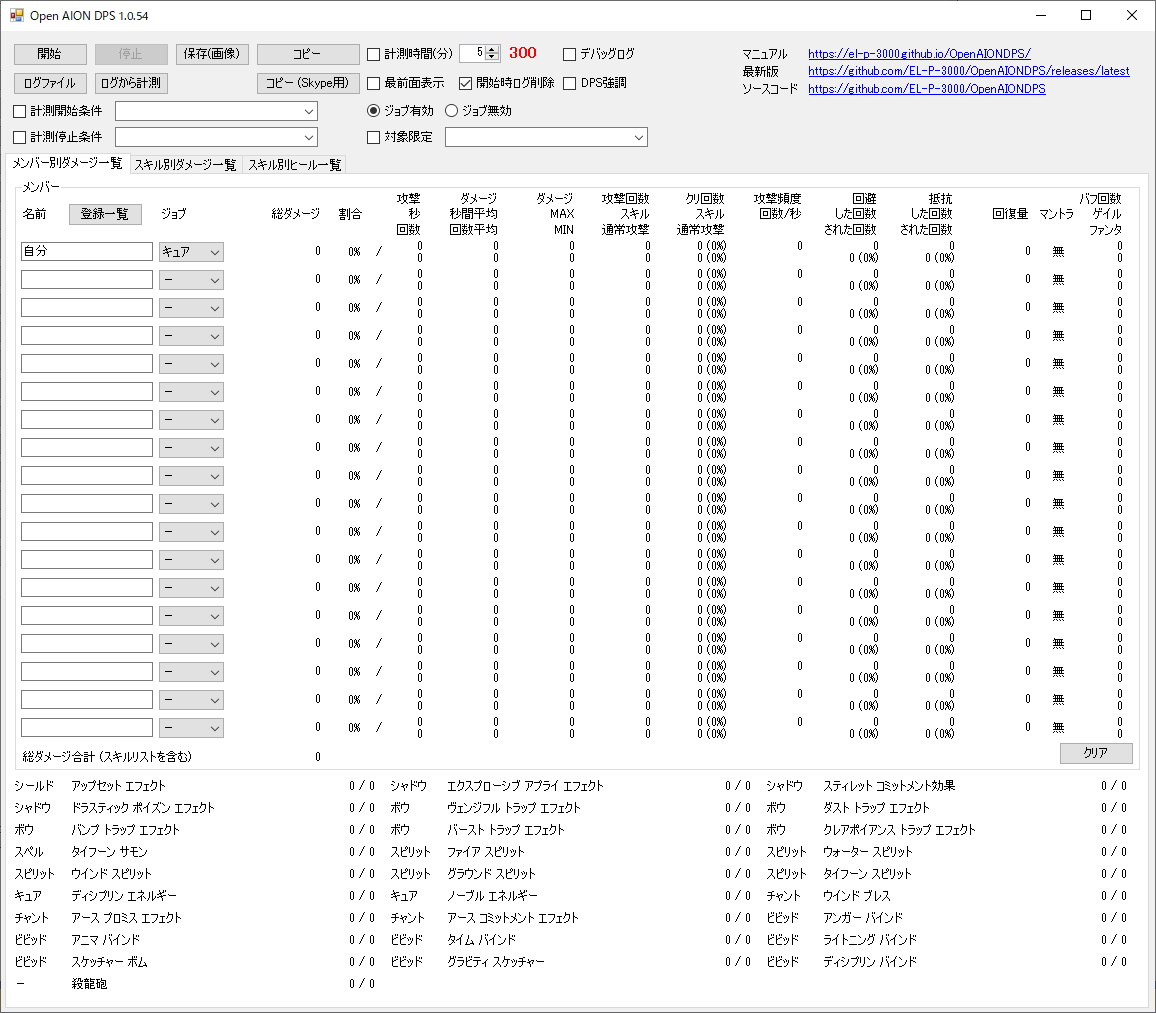
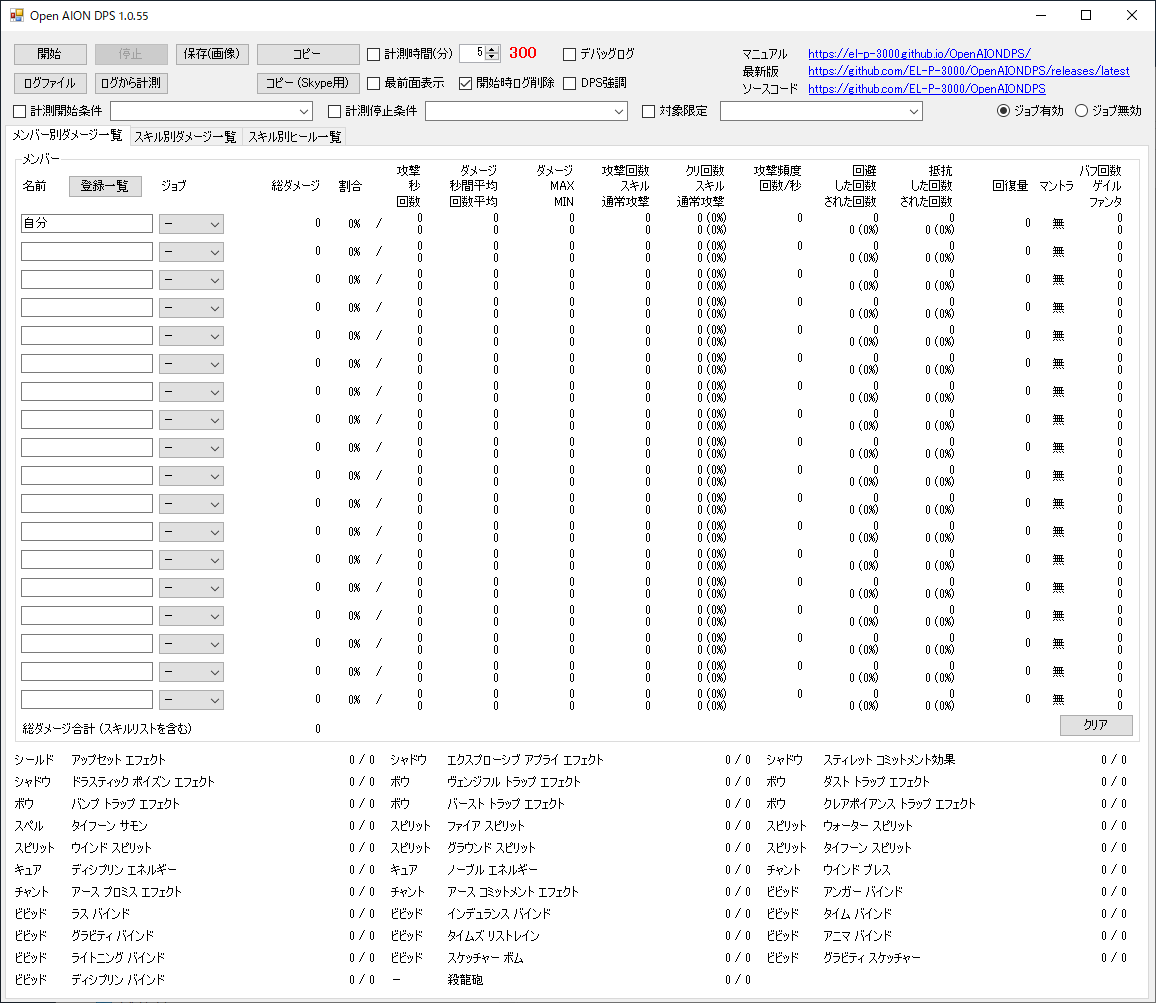
Version 1.0.55

diff --git a/OpenAIONDPS/MainForm.Designer.cs b/OpenAIONDPS/MainForm.Designer.cs
@@ -28,18 +28,18 @@
         /// </summary>
         private void InitializeComponent()
         {
-            System.Windows.Forms.DataGridViewCellStyle dataGridViewCellStyle73 = new System.Windows.Forms.DataGridViewCellStyle();
-            System.Windows.Forms.DataGridViewCellStyle dataGridViewCellStyle74 = new System.Windows.Forms.DataGridViewCellStyle();
-            System.Windows.Forms.DataGridViewCellStyle dataGridViewCellStyle75 = new System.Windows.Forms.DataGridViewCellStyle();
-            System.Windows.Forms.DataGridViewCellStyle dataGridViewCellStyle76 = new System.Windows.Forms.DataGridViewCellStyle();
-            System.Windows.Forms.DataGridViewCellStyle dataGridViewCellStyle77 = new System.Windows.Forms.DataGridViewCellStyle();
-            System.Windows.Forms.DataGridViewCellStyle dataGridViewCellStyle78 = new System.Windows.Forms.DataGridViewCellStyle();
-            System.Windows.Forms.DataGridViewCellStyle dataGridViewCellStyle79 = new System.Windows.Forms.DataGridViewCellStyle();
-            System.Windows.Forms.DataGridViewCellStyle dataGridViewCellStyle80 = new System.Windows.Forms.DataGridViewCellStyle();
-            System.Windows.Forms.DataGridViewCellStyle dataGridViewCellStyle81 = new System.Windows.Forms.DataGridViewCellStyle();
-            System.Windows.Forms.DataGridViewCellStyle dataGridViewCellStyle82 = new System.Windows.Forms.DataGridViewCellStyle();
-            System.Windows.Forms.DataGridViewCellStyle dataGridViewCellStyle83 = new System.Windows.Forms.DataGridViewCellStyle();
-            System.Windows.Forms.DataGridViewCellStyle dataGridViewCellStyle84 = new System.Windows.Forms.DataGridViewCellStyle();
+            System.Windows.Forms.DataGridViewCellStyle dataGridViewCellStyle85 = new System.Windows.Forms.DataGridViewCellStyle();
+            System.Windows.Forms.DataGridViewCellStyle dataGridViewCellStyle86 = new System.Windows.Forms.DataGridViewCellStyle();
+            System.Windows.Forms.DataGridViewCellStyle dataGridViewCellStyle87 = new System.Windows.Forms.DataGridViewCellStyle();
+            System.Windows.Forms.DataGridViewCellStyle dataGridViewCellStyle88 = new System.Windows.Forms.DataGridViewCellStyle();
+            System.Windows.Forms.DataGridViewCellStyle dataGridViewCellStyle89 = new System.Windows.Forms.DataGridViewCellStyle();
+            System.Windows.Forms.DataGridViewCellStyle dataGridViewCellStyle90 = new System.Windows.Forms.DataGridViewCellStyle();
+            System.Windows.Forms.DataGridViewCellStyle dataGridViewCellStyle91 = new System.Windows.Forms.DataGridViewCellStyle();
+            System.Windows.Forms.DataGridViewCellStyle dataGridViewCellStyle92 = new System.Windows.Forms.DataGridViewCellStyle();
+            System.Windows.Forms.DataGridViewCellStyle dataGridViewCellStyle93 = new System.Windows.Forms.DataGridViewCellStyle();
+            System.Windows.Forms.DataGridViewCellStyle dataGridViewCellStyle94 = new System.Windows.Forms.DataGridViewCellStyle();
+            System.Windows.Forms.DataGridViewCellStyle dataGridViewCellStyle95 = new System.Windows.Forms.DataGridViewCellStyle();
+            System.Windows.Forms.DataGridViewCellStyle dataGridViewCellStyle96 = new System.Windows.Forms.DataGridViewCellStyle();
             this.CalculationStartButton = new System.Windows.Forms.Button();
             this.CalculationStopButton = new System.Windows.Forms.Button();
             this.OpenLogFileButton = new System.Windows.Forms.Button();
@@ -886,14 +886,14 @@
             this.AttackSkillListDataGridView.Anchor = ((System.Windows.Forms.AnchorStyles)((((System.Windows.Forms.AnchorStyles.Top | System.Windows.Forms.AnchorStyles.Bottom) 
             | System.Windows.Forms.AnchorStyles.Left) 
             | System.Windows.Forms.AnchorStyles.Right)));
-            dataGridViewCellStyle73.Alignment = System.Windows.Forms.DataGridViewContentAlignment.MiddleLeft;
-            dataGridViewCellStyle73.BackColor = System.Drawing.SystemColors.Control;
-            dataGridViewCellStyle73.Font = new System.Drawing.Font("MS UI Gothic", 9F, System.Drawing.FontStyle.Regular, System.Drawing.GraphicsUnit.Point, ((byte)(128)));
-            dataGridViewCellStyle73.ForeColor = System.Drawing.SystemColors.WindowText;
-            dataGridViewCellStyle73.SelectionBackColor = System.Drawing.SystemColors.Highlight;
-            dataGridViewCellStyle73.SelectionForeColor = System.Drawing.SystemColors.HighlightText;
-            dataGridViewCellStyle73.WrapMode = System.Windows.Forms.DataGridViewTriState.False;
-            this.AttackSkillListDataGridView.ColumnHeadersDefaultCellStyle = dataGridViewCellStyle73;
+            dataGridViewCellStyle85.Alignment = System.Windows.Forms.DataGridViewContentAlignment.MiddleLeft;
+            dataGridViewCellStyle85.BackColor = System.Drawing.SystemColors.Control;
+            dataGridViewCellStyle85.Font = new System.Drawing.Font("MS UI Gothic", 9F, System.Drawing.FontStyle.Regular, System.Drawing.GraphicsUnit.Point, ((byte)(128)));
+            dataGridViewCellStyle85.ForeColor = System.Drawing.SystemColors.WindowText;
+            dataGridViewCellStyle85.SelectionBackColor = System.Drawing.SystemColors.Highlight;
+            dataGridViewCellStyle85.SelectionForeColor = System.Drawing.SystemColors.HighlightText;
+            dataGridViewCellStyle85.WrapMode = System.Windows.Forms.DataGridViewTriState.False;
+            this.AttackSkillListDataGridView.ColumnHeadersDefaultCellStyle = dataGridViewCellStyle85;
             this.AttackSkillListDataGridView.ColumnHeadersHeightSizeMode = System.Windows.Forms.DataGridViewColumnHeadersHeightSizeMode.AutoSize;
             this.AttackSkillListDataGridView.Columns.AddRange(new System.Windows.Forms.DataGridViewColumn[] {
             this.MemberNameColumn,
@@ -922,8 +922,8 @@
             // 
             // SkillNameColumn
             // 
-            dataGridViewCellStyle74.Alignment = System.Windows.Forms.DataGridViewContentAlignment.MiddleLeft;
-            this.SkillNameColumn.DefaultCellStyle = dataGridViewCellStyle74;
+            dataGridViewCellStyle86.Alignment = System.Windows.Forms.DataGridViewContentAlignment.MiddleLeft;
+            this.SkillNameColumn.DefaultCellStyle = dataGridViewCellStyle86;
             this.SkillNameColumn.HeaderText = "スキル名";
             this.SkillNameColumn.Name = "SkillNameColumn";
             this.SkillNameColumn.ReadOnly = true;
@@ -931,8 +931,8 @@
             // 
             // DamageColumn
             // 
-            dataGridViewCellStyle75.Alignment = System.Windows.Forms.DataGridViewContentAlignment.MiddleRight;
-            this.DamageColumn.DefaultCellStyle = dataGridViewCellStyle75;
+            dataGridViewCellStyle87.Alignment = System.Windows.Forms.DataGridViewContentAlignment.MiddleRight;
+            this.DamageColumn.DefaultCellStyle = dataGridViewCellStyle87;
             this.DamageColumn.HeaderText = "総ダメージ";
             this.DamageColumn.Name = "DamageColumn";
             this.DamageColumn.ReadOnly = true;
@@ -940,8 +940,8 @@
             // 
             // AttackNumberColumn
             // 
-            dataGridViewCellStyle76.Alignment = System.Windows.Forms.DataGridViewContentAlignment.MiddleRight;
-            this.AttackNumberColumn.DefaultCellStyle = dataGridViewCellStyle76;
+            dataGridViewCellStyle88.Alignment = System.Windows.Forms.DataGridViewContentAlignment.MiddleRight;
+            this.AttackNumberColumn.DefaultCellStyle = dataGridViewCellStyle88;
             this.AttackNumberColumn.HeaderText = "回数";
             this.AttackNumberColumn.Name = "AttackNumberColumn";
             this.AttackNumberColumn.ReadOnly = true;
@@ -949,40 +949,40 @@
             // 
             // MaxDamageColumn
             // 
-            dataGridViewCellStyle77.Alignment = System.Windows.Forms.DataGridViewContentAlignment.MiddleRight;
-            this.MaxDamageColumn.DefaultCellStyle = dataGridViewCellStyle77;
+            dataGridViewCellStyle89.Alignment = System.Windows.Forms.DataGridViewContentAlignment.MiddleRight;
+            this.MaxDamageColumn.DefaultCellStyle = dataGridViewCellStyle89;
             this.MaxDamageColumn.HeaderText = "MAXダメ(クリ無)";
             this.MaxDamageColumn.Name = "MaxDamageColumn";
             this.MaxDamageColumn.ReadOnly = true;
             // 
             // MinDamageColumn
             // 
-            dataGridViewCellStyle78.Alignment = System.Windows.Forms.DataGridViewContentAlignment.MiddleRight;
-            this.MinDamageColumn.DefaultCellStyle = dataGridViewCellStyle78;
+            dataGridViewCellStyle90.Alignment = System.Windows.Forms.DataGridViewContentAlignment.MiddleRight;
+            this.MinDamageColumn.DefaultCellStyle = dataGridViewCellStyle90;
             this.MinDamageColumn.HeaderText = "MINダメ(クリ無)";
             this.MinDamageColumn.Name = "MinDamageColumn";
             this.MinDamageColumn.ReadOnly = true;
             // 
             // MaxDamageWithCriticalColumn
             // 
-            dataGridViewCellStyle79.Alignment = System.Windows.Forms.DataGridViewContentAlignment.MiddleRight;
-            this.MaxDamageWithCriticalColumn.DefaultCellStyle = dataGridViewCellStyle79;
+            dataGridViewCellStyle91.Alignment = System.Windows.Forms.DataGridViewContentAlignment.MiddleRight;
+            this.MaxDamageWithCriticalColumn.DefaultCellStyle = dataGridViewCellStyle91;
             this.MaxDamageWithCriticalColumn.HeaderText = "MAXダメ(クリ有)";
             this.MaxDamageWithCriticalColumn.Name = "MaxDamageWithCriticalColumn";
             this.MaxDamageWithCriticalColumn.ReadOnly = true;
             // 
             // MinDamageWithCriticalColumn
             // 
-            dataGridViewCellStyle80.Alignment = System.Windows.Forms.DataGridViewContentAlignment.MiddleRight;
-            this.MinDamageWithCriticalColumn.DefaultCellStyle = dataGridViewCellStyle80;
+            dataGridViewCellStyle92.Alignment = System.Windows.Forms.DataGridViewContentAlignment.MiddleRight;
+            this.MinDamageWithCriticalColumn.DefaultCellStyle = dataGridViewCellStyle92;
             this.MinDamageWithCriticalColumn.HeaderText = "MINダメ(クリ有)";
             this.MinDamageWithCriticalColumn.Name = "MinDamageWithCriticalColumn";
             this.MinDamageWithCriticalColumn.ReadOnly = true;
             // 
             // DamageParAttackNumber
             // 
-            dataGridViewCellStyle81.Alignment = System.Windows.Forms.DataGridViewContentAlignment.MiddleRight;
-            this.DamageParAttackNumber.DefaultCellStyle = dataGridViewCellStyle81;
+            dataGridViewCellStyle93.Alignment = System.Windows.Forms.DataGridViewContentAlignment.MiddleRight;
+            this.DamageParAttackNumber.DefaultCellStyle = dataGridViewCellStyle93;
             this.DamageParAttackNumber.HeaderText = "平均ダメージ";
             this.DamageParAttackNumber.Name = "DamageParAttackNumber";
             this.DamageParAttackNumber.ReadOnly = true;
@@ -1017,14 +1017,14 @@
             this.HealSkillListDataGridView.Anchor = ((System.Windows.Forms.AnchorStyles)((((System.Windows.Forms.AnchorStyles.Top | System.Windows.Forms.AnchorStyles.Bottom) 
             | System.Windows.Forms.AnchorStyles.Left) 
             | System.Windows.Forms.AnchorStyles.Right)));
-            dataGridViewCellStyle82.Alignment = System.Windows.Forms.DataGridViewContentAlignment.MiddleLeft;
-            dataGridViewCellStyle82.BackColor = System.Drawing.SystemColors.Control;
-            dataGridViewCellStyle82.Font = new System.Drawing.Font("MS UI Gothic", 9F, System.Drawing.FontStyle.Regular, System.Drawing.GraphicsUnit.Point, ((byte)(128)));
-            dataGridViewCellStyle82.ForeColor = System.Drawing.SystemColors.WindowText;
-            dataGridViewCellStyle82.SelectionBackColor = System.Drawing.SystemColors.Highlight;
-            dataGridViewCellStyle82.SelectionForeColor = System.Drawing.SystemColors.HighlightText;
-            dataGridViewCellStyle82.WrapMode = System.Windows.Forms.DataGridViewTriState.False;
-            this.HealSkillListDataGridView.ColumnHeadersDefaultCellStyle = dataGridViewCellStyle82;
+            dataGridViewCellStyle94.Alignment = System.Windows.Forms.DataGridViewContentAlignment.MiddleLeft;
+            dataGridViewCellStyle94.BackColor = System.Drawing.SystemColors.Control;
+            dataGridViewCellStyle94.Font = new System.Drawing.Font("MS UI Gothic", 9F, System.Drawing.FontStyle.Regular, System.Drawing.GraphicsUnit.Point, ((byte)(128)));
+            dataGridViewCellStyle94.ForeColor = System.Drawing.SystemColors.WindowText;
+            dataGridViewCellStyle94.SelectionBackColor = System.Drawing.SystemColors.Highlight;
+            dataGridViewCellStyle94.SelectionForeColor = System.Drawing.SystemColors.HighlightText;
+            dataGridViewCellStyle94.WrapMode = System.Windows.Forms.DataGridViewTriState.False;
+            this.HealSkillListDataGridView.ColumnHeadersDefaultCellStyle = dataGridViewCellStyle94;
             this.HealSkillListDataGridView.ColumnHeadersHeightSizeMode = System.Windows.Forms.DataGridViewColumnHeadersHeightSizeMode.AutoSize;
             this.HealSkillListDataGridView.Columns.AddRange(new System.Windows.Forms.DataGridViewColumn[] {
             this.dataGridViewTextBoxColumn1,
@@ -1047,8 +1047,8 @@
             // 
             // dataGridViewTextBoxColumn2
             // 
-            dataGridViewCellStyle83.Alignment = System.Windows.Forms.DataGridViewContentAlignment.MiddleLeft;
-            this.dataGridViewTextBoxColumn2.DefaultCellStyle = dataGridViewCellStyle83;
+            dataGridViewCellStyle95.Alignment = System.Windows.Forms.DataGridViewContentAlignment.MiddleLeft;
+            this.dataGridViewTextBoxColumn2.DefaultCellStyle = dataGridViewCellStyle95;
             this.dataGridViewTextBoxColumn2.HeaderText = "スキル名";
             this.dataGridViewTextBoxColumn2.Name = "dataGridViewTextBoxColumn2";
             this.dataGridViewTextBoxColumn2.ReadOnly = true;
@@ -1056,8 +1056,8 @@
             // 
             // dataGridViewTextBoxColumn3
             // 
-            dataGridViewCellStyle84.Alignment = System.Windows.Forms.DataGridViewContentAlignment.MiddleRight;
-            this.dataGridViewTextBoxColumn3.DefaultCellStyle = dataGridViewCellStyle84;
+            dataGridViewCellStyle96.Alignment = System.Windows.Forms.DataGridViewContentAlignment.MiddleRight;
+            this.dataGridViewTextBoxColumn3.DefaultCellStyle = dataGridViewCellStyle96;
             this.dataGridViewTextBoxColumn3.HeaderText = "総回復量";
             this.dataGridViewTextBoxColumn3.Name = "dataGridViewTextBoxColumn3";
             this.dataGridViewTextBoxColumn3.ReadOnly = true;
@@ -1347,7 +1347,7 @@
             this.KeyPreview = true;
             this.MaximumSize = new System.Drawing.Size(1170, 1010);
             this.Name = "MainForm";
-            this.Text = "Open AION DPS 1.0.54";
+            this.Text = "Open AION DPS 1.0.55";
             this.FormClosing += new System.Windows.Forms.FormClosingEventHandler(this.MainForm_FormClosing);
             this.Load += new System.EventHandler(this.MainForm_Load);
             this.Resize += new System.EventHandler(this.MainForm_Resize);

diff --git a/OpenAIONDPS/Properties/AssemblyInfo.cs b/OpenAIONDPS/Properties/AssemblyInfo.cs
@@ -32,5 +32,5 @@ using System.Runtime.InteropServices;
 // すべての値を指定するか、次を使用してビルド番号とリビジョン番号を既定に設定できます
 // 既定値にすることができます:
 // [assembly: AssemblyVersion("1.0.*")]
-[assembly: AssemblyVersion("1.0.54.0")]
-[assembly: AssemblyFileVersion("1.0.54.0")]
+[assembly: AssemblyVersion("1.0.55.0")]
+[assembly: AssemblyFileVersion("1.0.55.0")]

diff --git a/docs/README.md b/docs/README.md
@@ -16,7 +16,7 @@ OS: Microsoft Windows 10 Pro 64bit
 ソフト: Microsoft Visual Studio Enterprise 2019  
 言語: C#  
 
-ツールのメイン画面 (Version 1.0.54)  
+ツールのメイン画面 (Version 1.0.55)  
 ![Main](images/OpenAIONDPS-Main.png)
 
 登録一覧画面  
